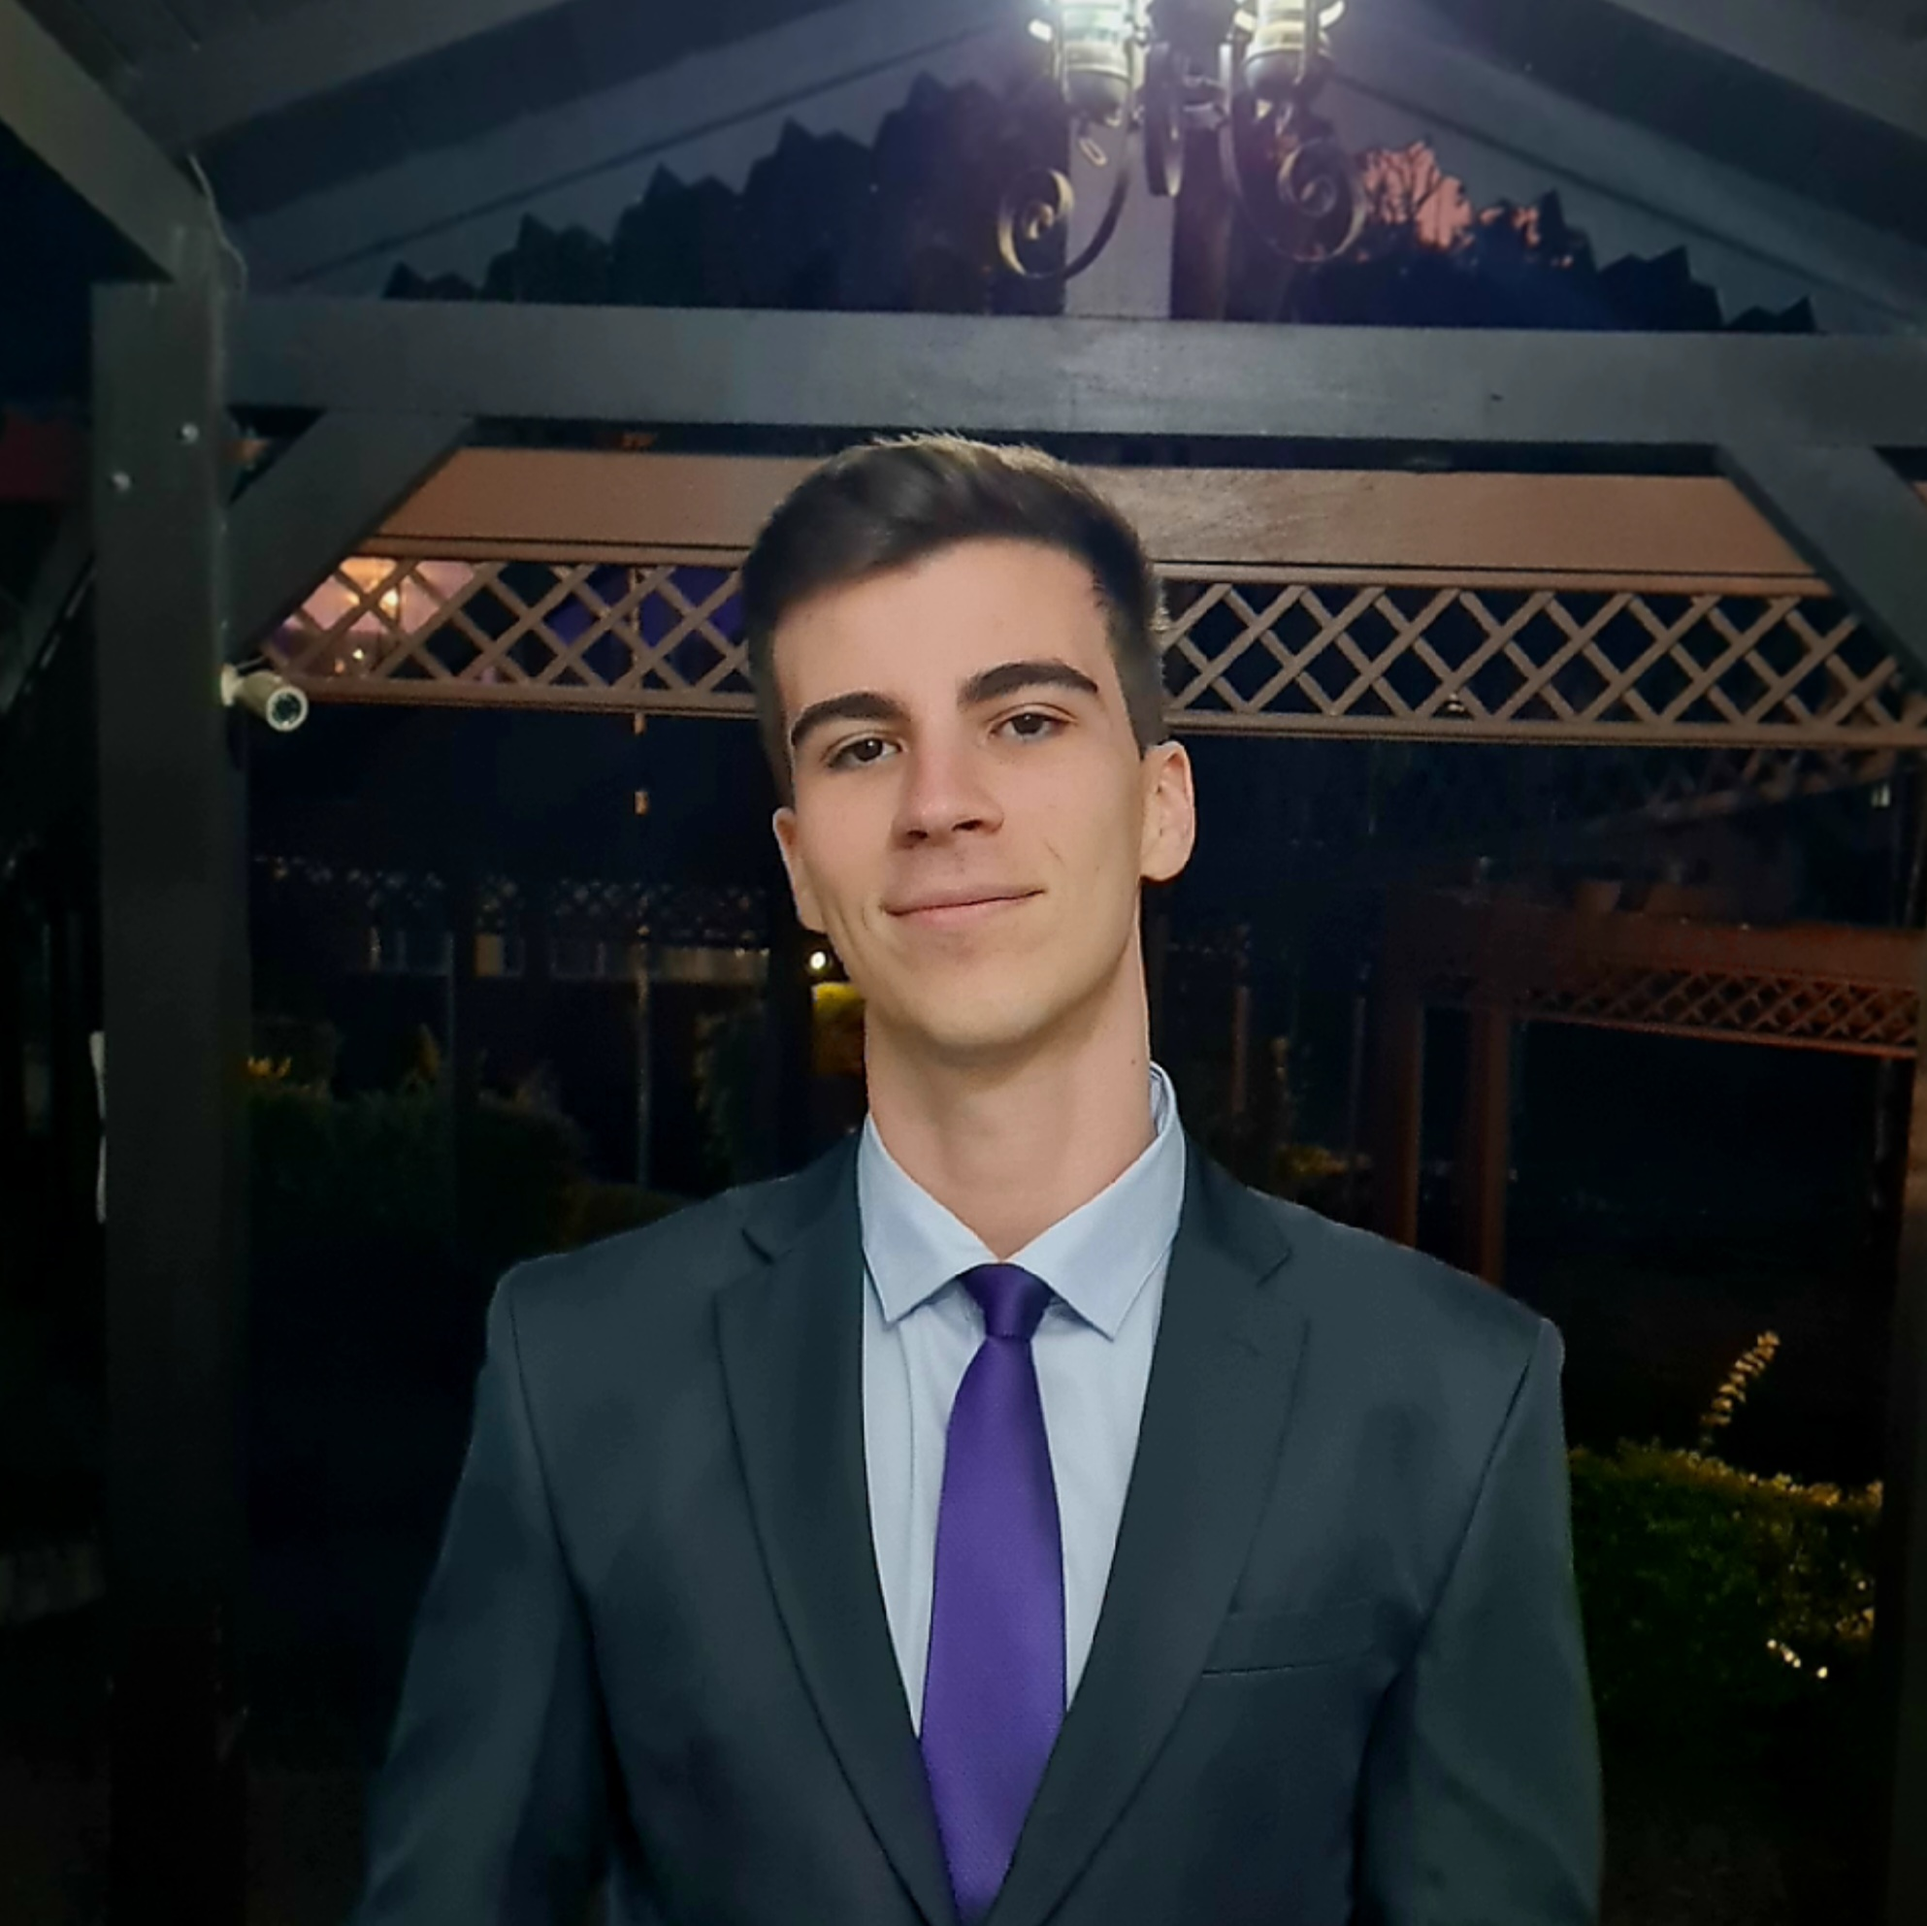
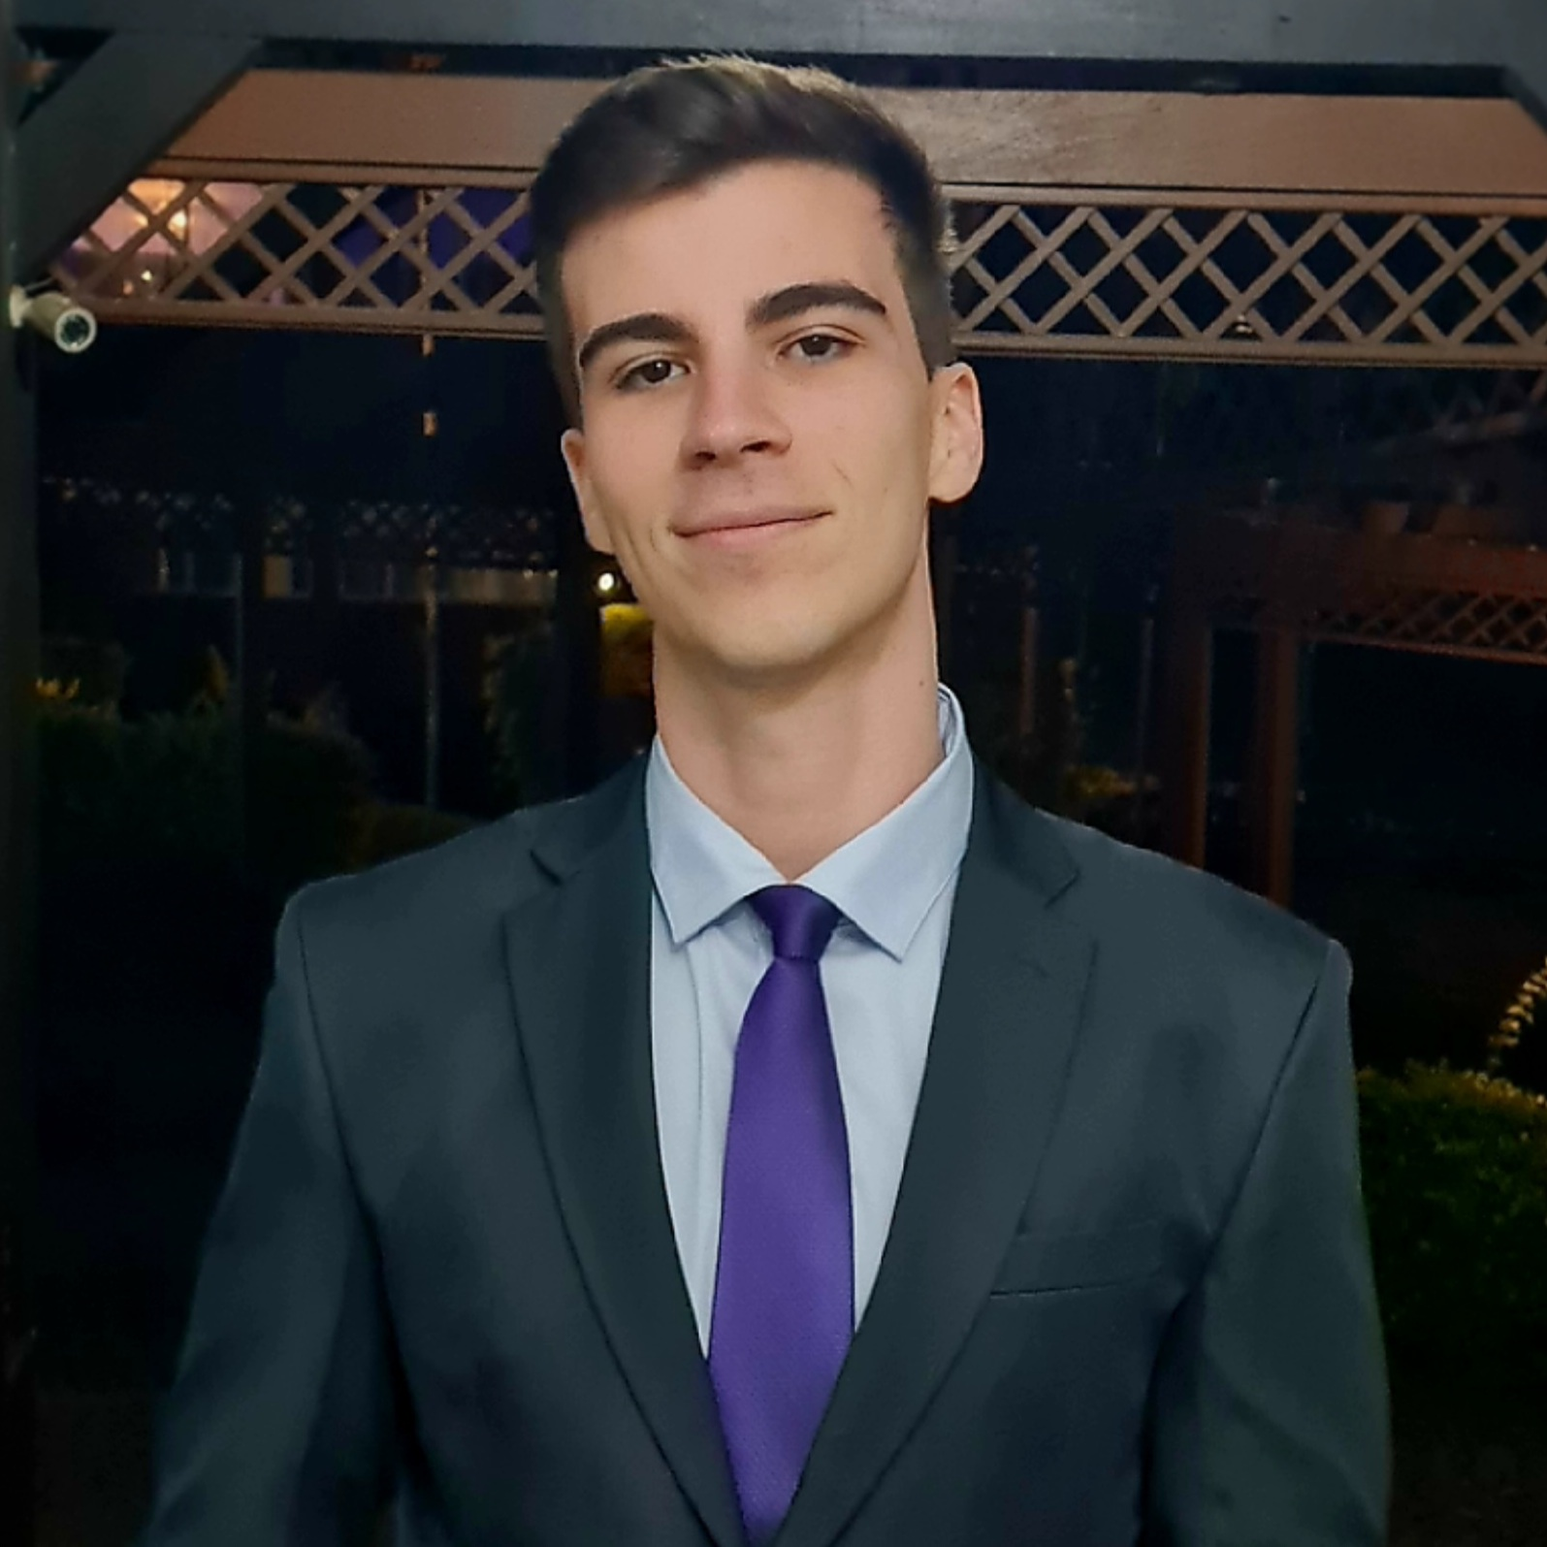
feat: home page with profile picture

diff --git a/src/app/page.tsx b/src/app/page.tsx
@@ -1,52 +1,14 @@
 "use client";
 
-import { ChatLoading, ChatMessage } from "@/components";
+import { AnimatedLetter, ChatLoading, ChatMessage } from "@/components";
 import { ChatMessageProps } from "@/components/ChatMessage";
+import Image from "next/image";
 import { useEffect, useRef, useState } from "react";
 
 const chatMessages: ChatMessageProps[] = [
   { senderName: "Rafael Pelle", text: "Hi," },
   { text: "I'm Rafael Pelle!" },
-  { text: "I'm Rafael Pelle!" },
-  { text: "I'm Rafael Pelle!" },
-  { text: "I'm Rafael Pelle!" },
-  { text: "I'm Rafael Pelle!" },
-  { text: "I'm Rafael Pelle!" },
-  { text: "I'm Rafael Pelle!" },
-  { text: "I'm Rafael Pelle!" },
-  { text: "I'm Rafael Pelle!" },
-  { text: "I'm Rafael Pelle!" },
-  { text: "I'm Rafael Pelle!" },
-  { text: "I'm Rafael Pelle!" },
-  { text: "I'm Rafael Pelle!" },
-  { text: "I'm Rafael Pelle!" },
-  { text: "I'm Rafael Pelle!" },
-  { text: "I'm Rafael Pelle!" },
-  { text: "I'm Rafael Pelle!" },
-  { text: "I'm Rafael Pelle!" },
-  { text: "I'm Rafael Pelle!" },
-  { text: "I'm Rafael Pelle!" },
-  { text: "I'm Rafael Pelle!" },
-  { text: "I'm Rafael Pelle!" },
-  { text: "I'm Rafael Pelle!" },
-  { text: "I'm Rafael Pelle!" },
-  { text: "I'm Rafael Pelle!" },
-  { text: "I'm Rafael Pelle!" },
-  { text: "I'm Rafael Pelle!" },
-  { text: "I'm Rafael Pelle!" },
-  { text: "I'm Rafael Pelle!" },
-  { text: "I'm Rafael Pelle!" },
-  { text: "I'm Rafael Pelle!" },
-  { text: "I'm Rafael Pelle!" },
-  { text: "I'm Rafael Pelle!" },
-  { text: "I'm Rafael Pelle!" },
-  { text: "I'm Rafael Pelle!" },
-  { text: "I'm Rafael Pelle!" },
-  { text: "I'm Rafael Pelle!" },
-  { text: "I'm Rafael Pelle!" },
-  { text: "I'm Rafael Pelle!" },
-  { text: "I'm Rafael Pelle!" },
-  { text: "I'm Rafael Pelle!" },
+  { text: "You can ask me a question, or navigate through the menu." },
 ];
 
 export default function IndexPage() {
@@ -71,7 +33,7 @@ export default function IndexPage() {
       } else {
         clearInterval(interval);
       }
-    }, 500);
+    }, 1500);
 
     return () => {
       clearInterval(interval);
@@ -83,7 +45,25 @@ export default function IndexPage() {
   }, [content]);
 
   return (
-    <div className="flex flex-col justify-end h-full p-6">
+    <div className="flex flex-col justify-end lg:justify-between h-full p-3 lg:p-20">
+      <div className="hidden lg:flex items-center justify-between">
+        <h1 className="text-6xl">
+          I&apos;m
+          <p className="text-8xl whitespace-nowrap">
+            {"Rafael".split("").map((letter, index) => (
+              <AnimatedLetter key={index} letter={letter} />
+            ))}
+          </p>
+        </h1>
+        <Image
+          className="rounded-full bg-blur"
+          alt="Rafael Pelle picture"
+          src="/images/profile.jpg"
+          width={300}
+          height={300}
+        />
+      </div>
+
       <div className="w-12/12 lg:w-6/12">
         {content.map((message, index) => (
           <ChatMessage key={index} {...message} />

diff --git a/src/components/ChatMessage/index.tsx b/src/components/ChatMessage/index.tsx
@@ -12,7 +12,7 @@ export interface ChatMessageProps {
 }
 
 export default function ChatMessage({
-  imgSrc = "/images/profileCropped.jpg",
+  imgSrc = "/images/profile.png",
   senderName = "",
   date = new Date(),
   text = "",
@@ -24,8 +24,8 @@ export default function ChatMessage({
       className="chat chat-start mb-3 last:mb-0"
     >
       <div className="chat-image avatar">
-        <div className="rounded-full">
-          <Image src={imgSrc} width={40} height={40} alt="Profile picture" />
+        <div className="rounded-full bg-base-300">
+          <Image src={imgSrc} width={50} height={50} alt="Profile picture" />
         </div>
       </div>
       <div className="chat-header">{senderName}</div>

diff --git a/src/components/ChatLoading/index.tsx b/src/components/ChatLoading/index.tsx
@@ -5,13 +5,13 @@ export interface ChatLoadingProps {
 }
 
 export default function ChatMessage({
-  imgSrc = "/images/profileCropped.jpg",
+  imgSrc = "/images/profile.png",
 }: ChatLoadingProps) {
   return (
     <div className="chat chat-start mb-3 last:mb-0">
       <div className="chat-image avatar">
-        <div className="rounded-full">
-          <Image src={imgSrc} width={40} height={40} alt="Profile picture" />
+        <div className="rounded-full bg-base-300">
+          <Image src={imgSrc} width={50} height={50} alt="Profile picture" />
         </div>
       </div>
       <div className="chat-bubble flex items-center">

diff --git a/src/app/layout.tsx b/src/app/layout.tsx
@@ -18,7 +18,7 @@ export default function RootLayout({ children }: RootLayoutProps) {
   return (
     <html lang="en" data-theme="dark">
       <body className={montserrat.className}>
-        <div className="bg-base-100 drawer lg:drawer-open">
+        <div className="bg-base-100 drawer lg:drawer-open h-screen">
           <input id="drawer" type="checkbox" className="drawer-toggle" />
 
           <div className="drawer-content">

diff --git a/src/app/globals.css b/src/app/globals.css
@@ -2,18 +2,11 @@
 @tailwind components;
 @tailwind utilities;
 
-:root {
-  --foreground-rgb: 0, 0, 0;
-  --background-start-rgb: 214, 219, 220;
-  --background-end-rgb: 255, 255, 255;
-}
 
-@media (prefers-color-scheme: dark) {
-  :root {
+:root {
     --foreground-rgb: 255, 255, 255;
     --background-start-rgb: 0, 0, 0;
     --background-end-rgb: 0, 0, 0;
-  }
 }
 
 body {
